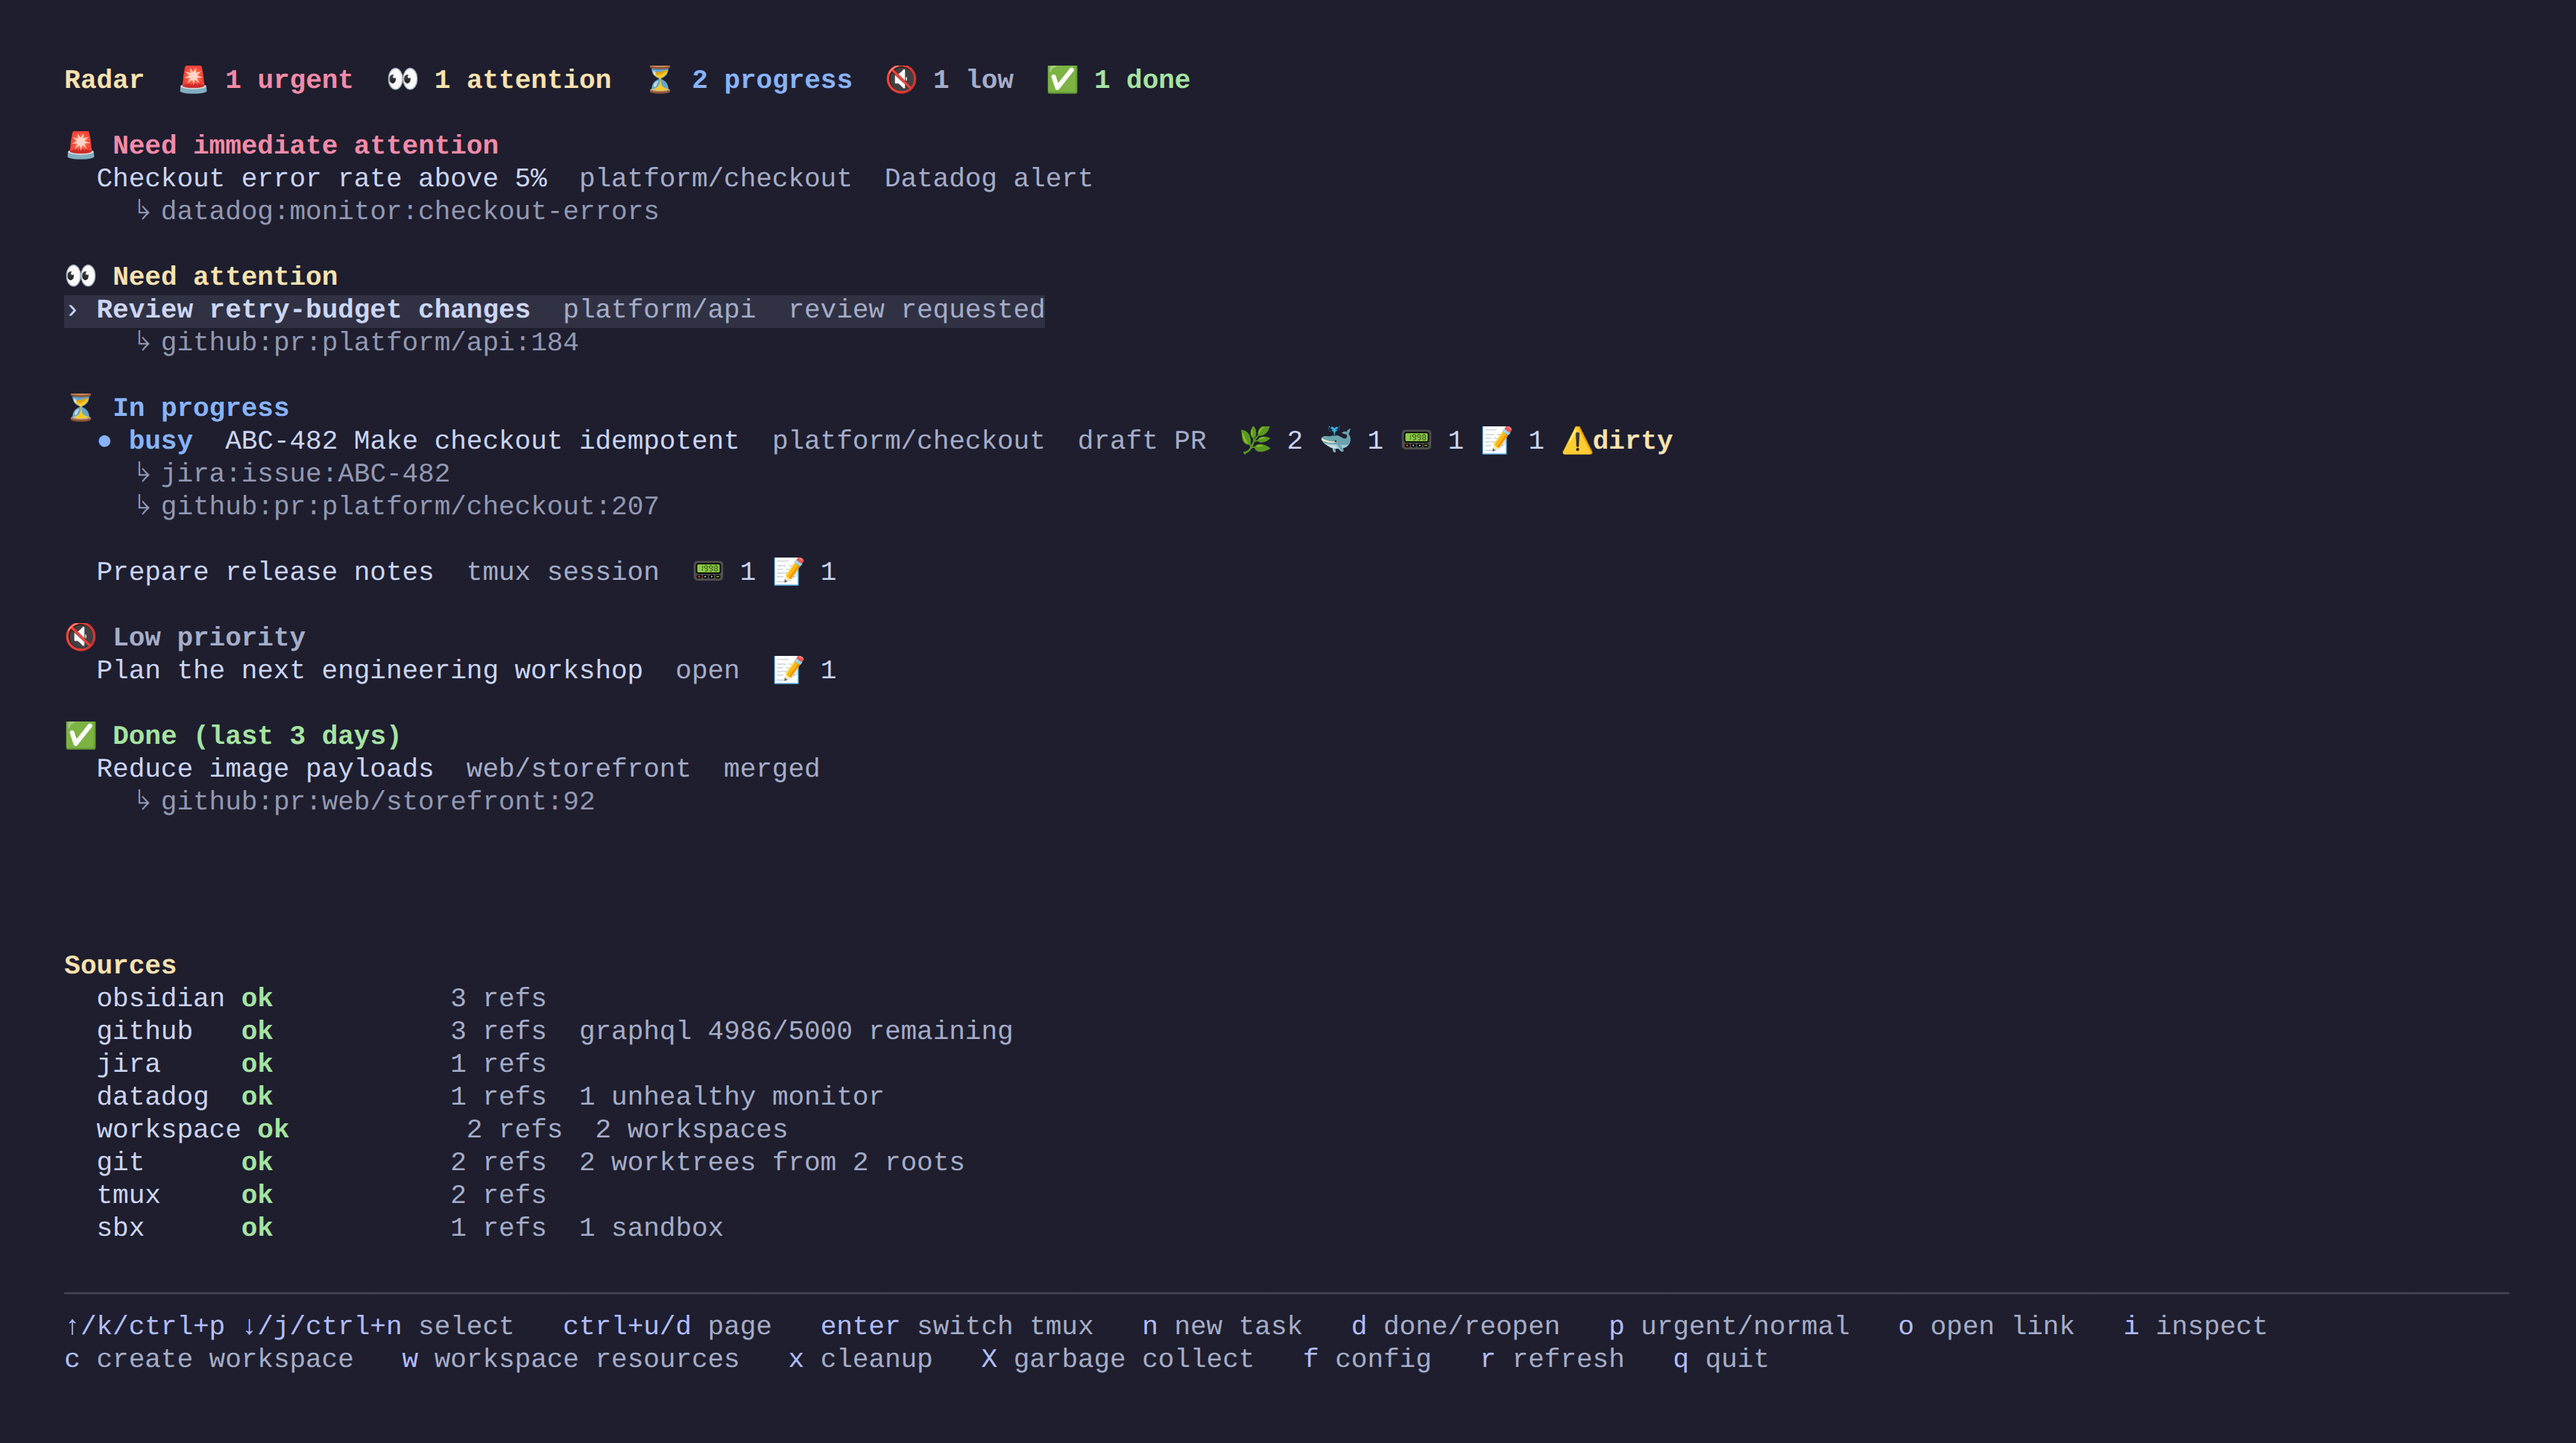
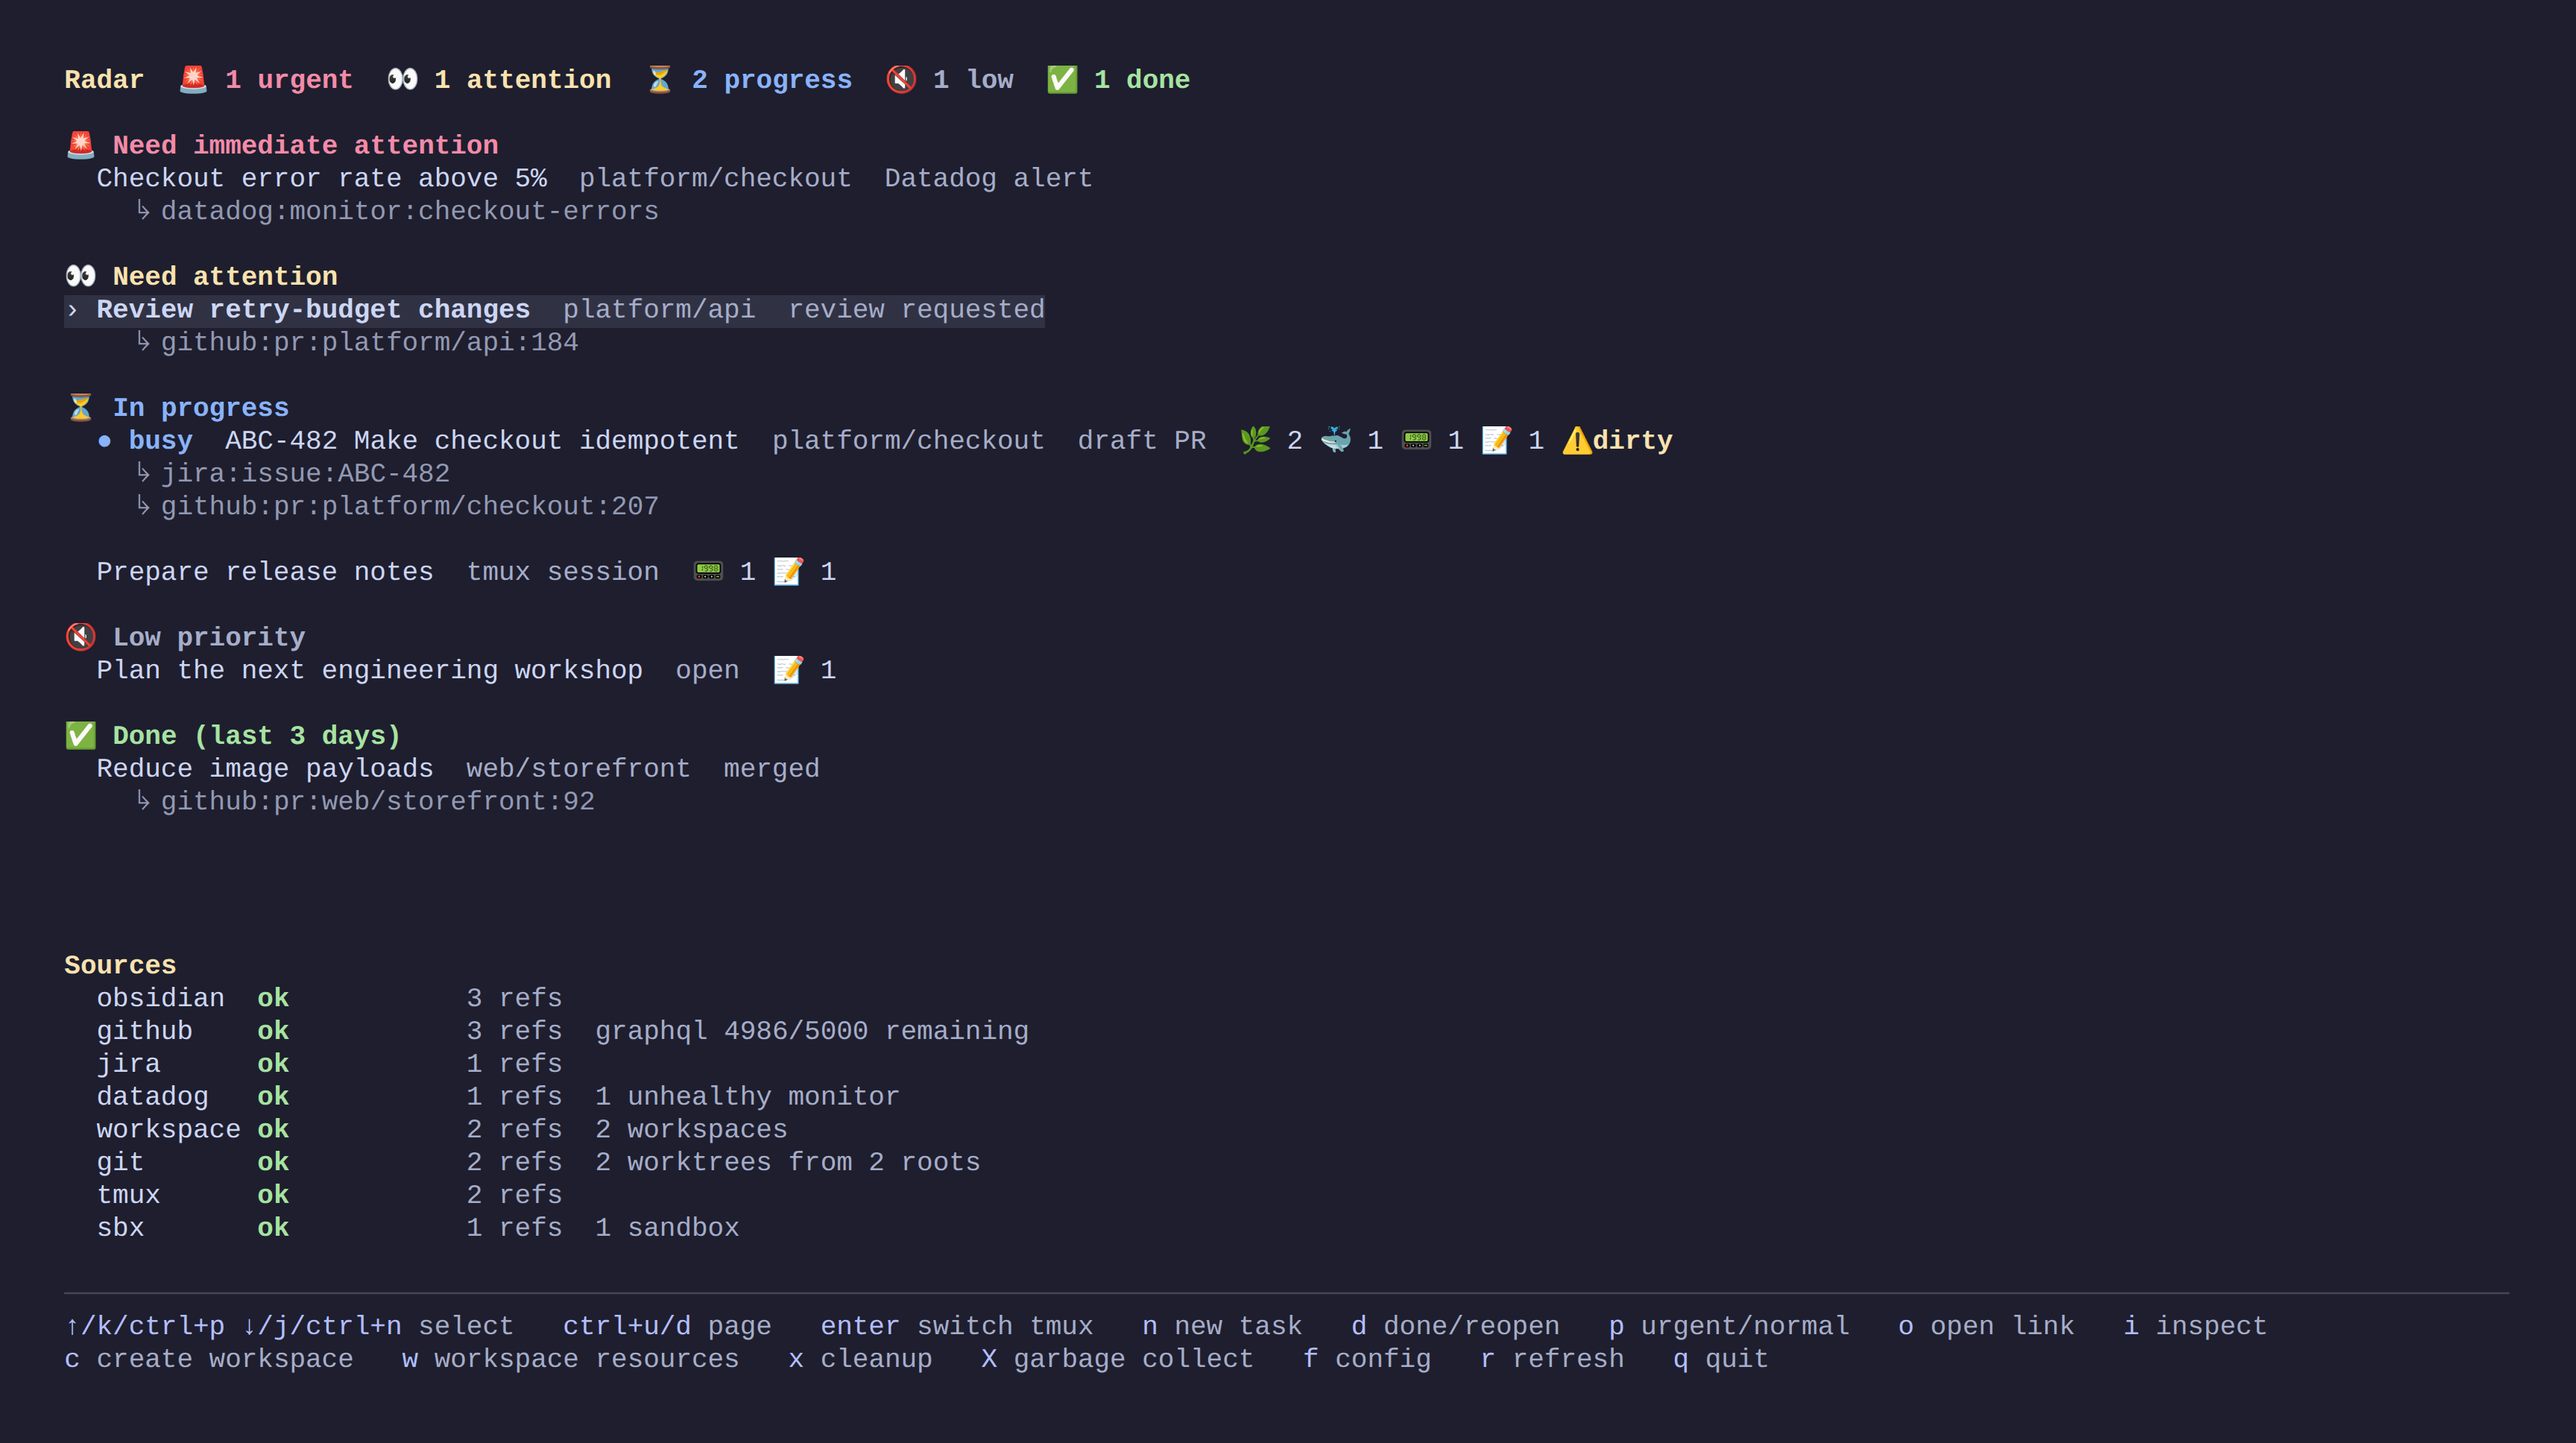
fix(tui): align source columns after the longest name
Measure source names in terminal cells rather than assuming eight characters. Keep statuses, reference counts, and details aligned for workspace and longer integration names, including wide Unicode characters. Refresh the README capture to match.

diff --git a/internal/tui/layout_test.go b/internal/tui/layout_test.go
@@ -266,3 +266,29 @@ func TestTallerPopupGivesExtraRowsToTasks(t *testing.T) {
 		t.Fatalf("resized frame height = %d, want 50", lipgloss.Height(after))
 	}
 }
+
+func TestSourceColumnsAlignAfterTheLongestName(t *testing.T) {
+	for _, names := range [][]string{
+		{"obsidian", "github", "jira", "datadog", "workspace", "git", "tmux", "sbx"},
+		{"git", "workspace", "custom-provider", "日本語"},
+	} {
+		m := model{}
+		nameWidth := 8
+		for _, name := range names {
+			nameWidth = max(nameWidth, lipgloss.Width(name))
+			m.sources = append(m.sources, protocol.SourceStatus{Name: name, Status: "ok", SourceRefCount: 1, Detail: "source details"})
+		}
+		lines := strings.Split(m.sourceList(100), "\n")[1:]
+		for _, line := range lines {
+			if column := renderedColumnIndex(line, "ok"); column != 2+nameWidth+1 {
+				t.Fatalf("status column = %d, want %d: %q", column, 2+nameWidth+1, ansi.Strip(line))
+			}
+			for _, anchor := range []string{"1 refs", "source details"} {
+				if column := renderedColumnIndex(line, anchor); column != renderedColumnIndex(lines[0], anchor) {
+					t.Fatalf("%q columns do not align: %q", anchor, ansi.Strip(line))
+				}
+			}
+		}
+		assertNoWideLines(t, m.sourceList(40), 40)
+	}
+}

diff --git a/internal/tui/tui.go b/internal/tui/tui.go
@@ -2235,11 +2235,16 @@ func sourceRefLabel(ref protocol.SourceRef) string {
 }
 
 func (m model) sourceList(width int) string {
+	nameWidth := 8
+	for _, source := range m.sources {
+		nameWidth = max(nameWidth, lipgloss.Width(source.Name))
+	}
 	var lines []string
 	lines = append(lines, titleStyle.Render("Sources"))
 	for _, source := range m.sources {
 		statusStyle := sourceStatusStyle(source.Status)
-		line := textStyle.Render(fmt.Sprintf("  %-8s ", source.Name)) +
+		name := source.Name + strings.Repeat(" ", nameWidth-lipgloss.Width(source.Name))
+		line := textStyle.Render("  "+name+" ") +
 			statusStyle.Render(fmt.Sprintf("%-8s", source.Status)) +
 			subtleStyle.Render(fmt.Sprintf("  %4d refs", source.SourceRefCount))
 		if source.Detail != "" {
